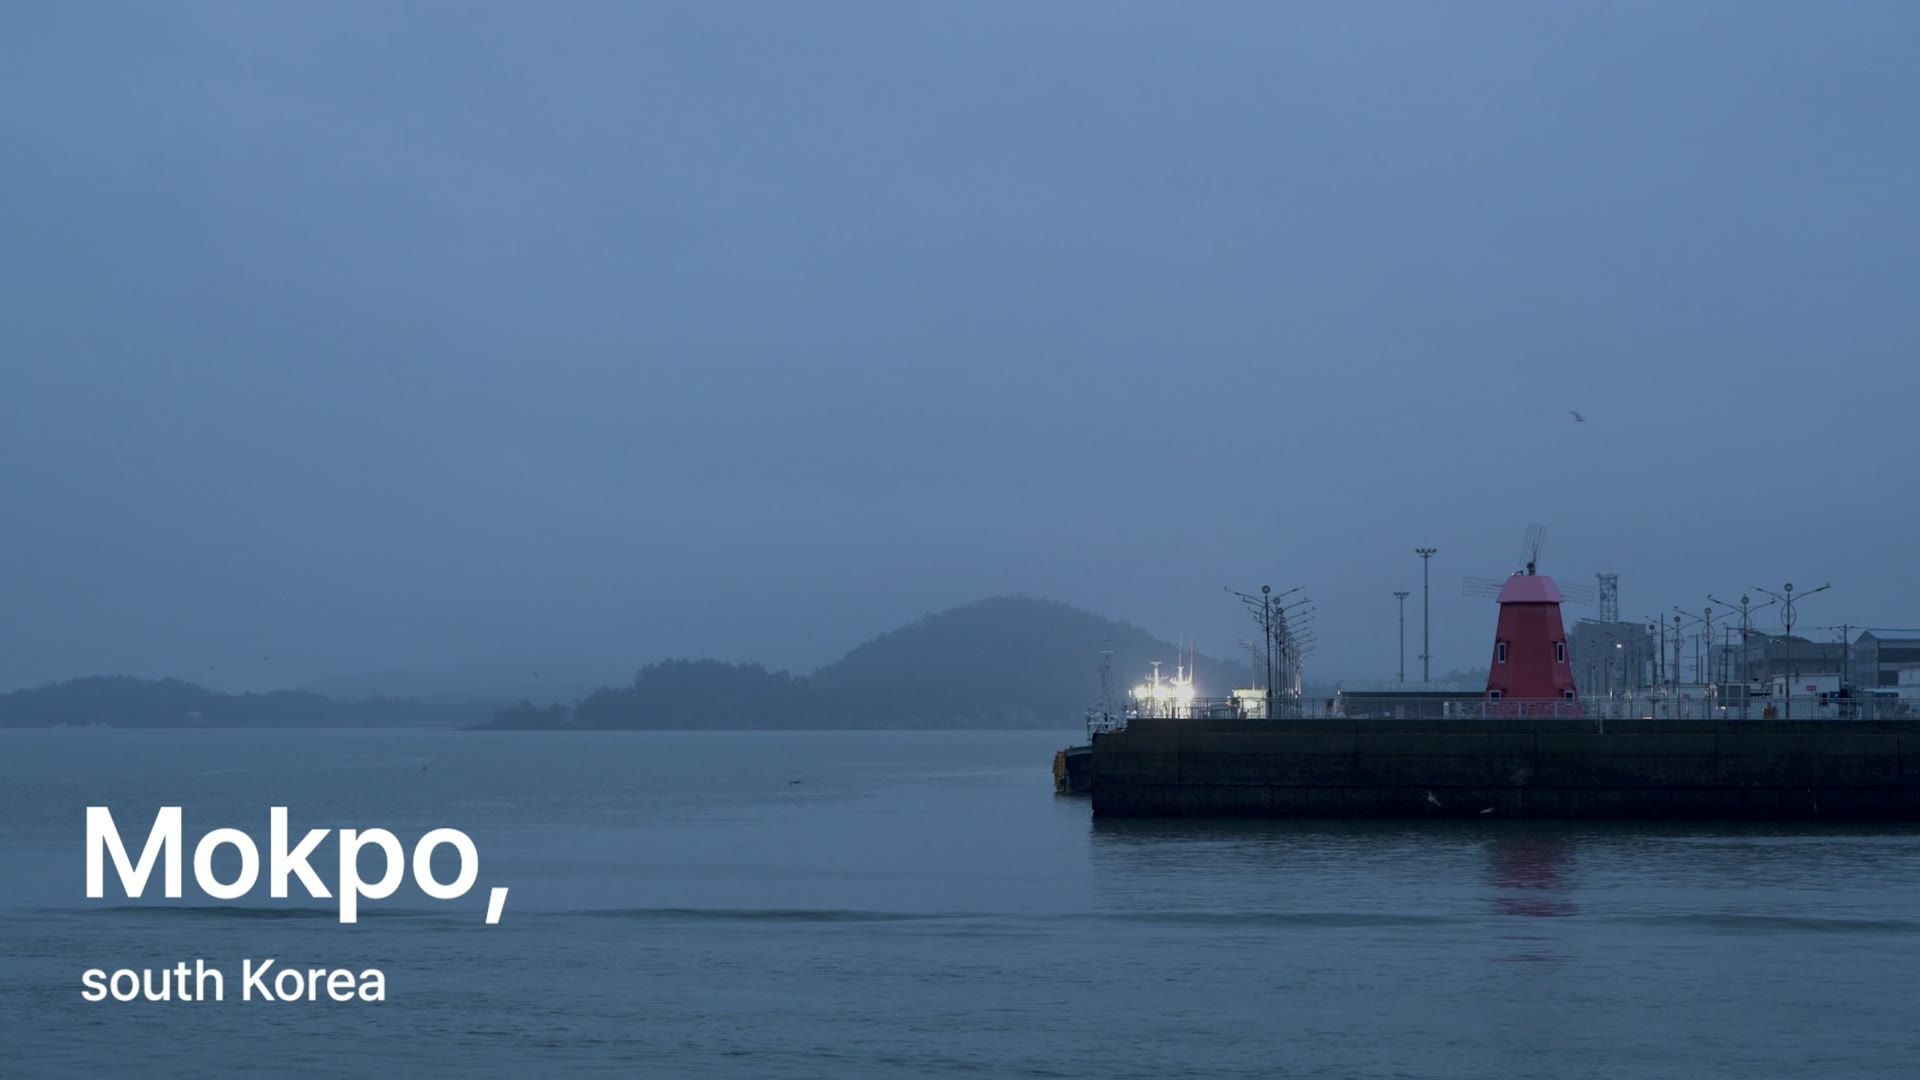
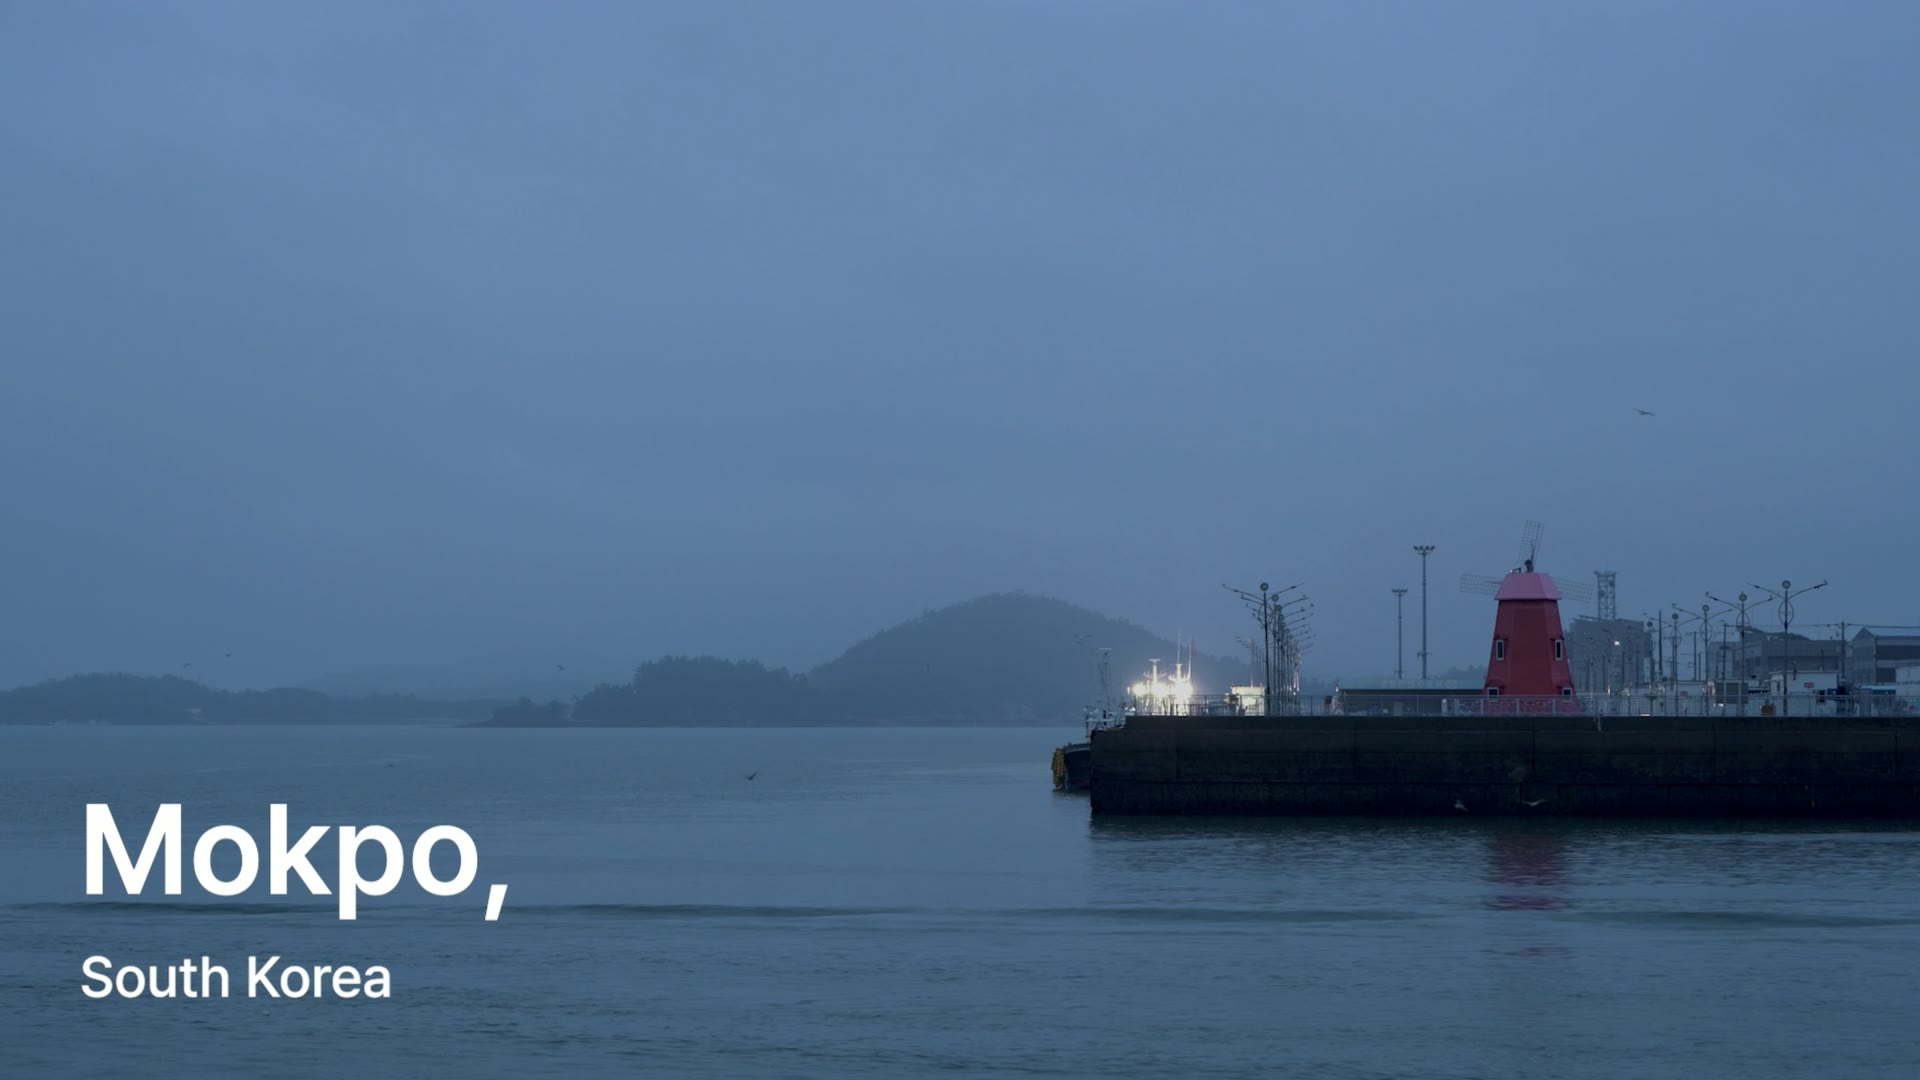
Add teams 3-4 thumbnails from video frames, replace team 1 documentary thumbnail
3 doc 82.17s, 3 brand 8.26s, 4 doc 37.8s (cropped above burned-in subtitle), 4 brand 16.46s.
Team 1 doc thumbnail updated to the new Drive file (3344x1856, cropped to 16:9).

diff --git a/4/index.html b/4/index.html
@@ -29,11 +29,11 @@
     <h1 class="tlogo rv" style="--i:1"><span class="lg" style="--k:1.02" aria-hidden="true"><svg xmlns="http://www.w3.org/2000/svg" viewBox="0 0 629.00 165.00" fill="currentColor"><path d="M199.42 29.40L222.21 29.40L222.21 132.00L232.63 132.00L232.63 29.40L255.42 29.40L255.42 19.00L199.42 19.00Z"/><path d="M267.38 82.21L267.44 81.77C268.75 72.90 272.40 65.73 278.27 60.47L278.29 60.49C284.18 55.25 291.45 52.60 299.91 52.60C309.00 52.60 316.48 55.08 322.16 59.95C327.81 64.82 331.74 72.16 333.86 81.75L333.96 82.21ZM333.17 56.23C324.94 47.33 314.60 43.00 301.58 43.00C288.56 43.00 277.53 47.27 269.13 55.70C260.82 64.02 256.42 75.16 256.42 87.88C256.42 100.60 260.78 110.95 269.40 119.75C278.00 128.54 288.66 133.00 301.11 133.00C310.47 133.00 318.86 130.45 325.98 125.42C332.62 120.75 337.94 114.08 341.83 105.59L342.46 104.21L330.68 104.21L330.40 104.75C327.57 110.40 323.59 114.90 318.58 118.14C313.32 121.51 307.33 123.22 300.79 123.22C291.53 123.22 283.69 120.28 277.53 114.45C271.32 108.61 267.85 100.88 267.16 91.49L267.12 91.08L345.42 91.08L345.42 90.10L345.40 90.08C345.28 76.27 341.18 64.88 333.17 56.23"/><path d="M479.97 87.87C479.82 97.53 476.51 105.94 470.12 112.83C463.50 119.99 455.92 123.46 446.97 123.46C438.01 123.46 429.91 120.07 423.41 113.38C416.73 106.49 413.61 98.64 413.61 88.66C413.61 78.67 416.92 69.82 423.45 62.91C429.99 56.01 438.01 52.52 447.30 52.52L447.30 52.54C455.87 52.54 463.54 56.03 470.08 62.94C476.64 69.82 479.97 78.00 479.97 87.23ZM479.99 59.56L479.97 59.58L479.27 58.60C475.67 53.60 471.09 49.69 465.66 47.02C460.23 44.35 454.15 43.00 447.63 43.00C434.93 43.00 424.20 47.36 415.73 55.97C407.28 64.56 403.00 75.41 403.00 88.21C403.00 101.00 407.21 111.54 415.48 120.09C423.76 128.66 434.25 133.00 446.69 133.00C453.35 133.00 459.68 131.59 465.48 128.78C471.27 125.98 475.92 122.07 479.29 117.17L479.99 116.13L479.99 130.72L490.00 130.72L490.00 44.88L479.99 44.88Z"/><path d="M546.42 19.00L490.42 19.00L490.42 29.40L513.20 29.40L513.20 132.00L523.64 132.00L523.64 29.40L546.42 29.40Z"/><path d="M608.92 113.57C602.35 120.43 594.66 123.91 586.08 123.91C576.96 123.91 569.08 120.43 562.66 113.61C556.22 106.78 552.97 98.18 552.97 88.10L552.97 87.71C553.04 78.13 556.32 69.94 562.72 63.37C569.10 56.81 577.18 53.34 586.10 53.34C595.01 53.34 602.62 56.89 609.10 63.89C615.56 70.88 618.83 79.42 618.83 89.29C618.83 98.53 615.50 106.68 608.92 113.57M618.97 60.91L618.27 59.95C614.25 54.49 609.57 50.44 604.36 47.86C599.17 45.29 592.88 44.00 585.70 44.00C573.37 44.00 562.92 48.31 554.58 56.81C546.12 65.43 542.00 75.79 542.00 88.49C542.00 101.18 546.27 111.99 554.72 120.51C563.17 129.04 573.94 133.35 586.70 133.35C593.04 133.35 598.91 131.90 604.14 129.06C609.39 126.19 614.15 121.90 618.27 116.28L618.97 115.32L618.97 118.80C618.97 129.76 615.95 138.63 609.98 145.20C603.99 151.80 595.95 155.13 586.08 155.13C579.75 155.13 574.31 153.71 569.90 150.88C565.71 148.21 562.70 144.48 560.96 139.82L560.73 139.18L548.67 139.18L549.06 140.44C551.27 147.60 555.62 153.45 561.96 157.84C568.87 162.60 577.24 165.00 586.88 165.00C599.95 165.00 610.35 160.79 617.78 152.46C625.21 144.11 629.00 132.35 629.00 117.49L629.00 46.03L618.97 46.03Z"/><path d="M364.00 132.00L374.00 132.00L374.00 46.00L364.00 46.00Z"/><path d="M377.00 46.00L377.00 56.00L387.00 56.00L397.00 46.00L387.00 46.00Z"/><path d="M53.67 108.67L107.33 54.33L161.00 54.33L161.00 0.00L53.67 0.00Z"/><path d="M0.00 54.33L53.67 0.00L0.00 0.00Z"/><path d="M53.67 161.33L53.67 108.67L0.00 163.00L52.00 163.00L53.67 163.00L106.00 163.00L161.00 163.00L161.00 109.00L106.00 109.00Z"/></svg></span><span class="sr">4조</span></h1>
     <p class="title rv" style="--i:2">TeraTg: TENO</p>
   </div>
-  <figure class="film rv" style="--i:3" data-video="https://youtu.be/eu5NG_8lGsk" aria-label="4조 영상">
+  <figure class="film rv has-poster" style="--i:3;background-image:url(../assets/thumbs/4-main.jpg)" data-video="https://youtu.be/eu5NG_8lGsk" aria-label="4조 영상">
     <button class="play" type="button" disabled><span class="tri"></span><span class="lbl ko">메인 영상</span></button>
   </figure>
   <section class="about rv" style="--i:4">
-    <figure class="film reel" data-video="https://youtu.be/U_OxH2unRtc" aria-label="4조 브랜드 필름">
+    <figure class="film reel has-poster" style="background-image:url(../assets/thumbs/4-brand.jpg)" data-video="https://youtu.be/U_OxH2unRtc" aria-label="4조 브랜드 필름">
       <button class="play" type="button" disabled><span class="tri"></span><span class="lbl ko">브랜드 필름</span></button>
     </figure>
     <div class="text"><p class="lead">금속가공칩을 노동의 기록으로 바라보고, 이를 일상으로 가져와 새로운 기록을 쌓아갈 수 있는 오브제를 디자인하는 브랜드.</p><p class="body">What remains after something is made?

diff --git a/3/index.html b/3/index.html
@@ -29,11 +29,11 @@
     <h1 class="tlogo rv" style="--i:1"><span class="lg" style="--k:0.93" aria-hidden="true"><svg xmlns="http://www.w3.org/2000/svg" viewBox="0 0 380.66 135.99" fill="currentColor"><path d="M123.60 118.45C111.01 118.45 103.21 108.55 103.21 95.95C103.21 83.37 111.01 73.47 123.60 73.47C136.20 73.47 143.99 83.37 143.99 95.95C143.99 108.55 136.20 118.45 123.60 118.45M123.60 55.94C99.92 55.94 82.38 73.62 82.38 95.95C82.38 118.45 99.92 135.98 123.60 135.98C147.29 135.98 164.83 118.45 164.83 95.95C164.83 73.47 147.29 55.94 123.60 55.94"/><path d="M214.49 74.40L228.11 74.40L228.11 56.13L214.49 56.13C189.81 56.13 171.53 73.62 171.53 95.95C171.53 118.45 189.81 135.79 214.49 135.79L228.11 135.79L228.11 117.51L214.49 117.51C201.37 117.51 193.24 108.14 193.24 95.95C193.24 83.78 201.37 74.40 214.49 74.40"/><path d="M367.04 74.40L380.66 74.40L380.66 56.13L367.04 56.13C342.36 56.13 324.08 73.62 324.08 95.95C324.08 118.45 342.36 135.79 367.04 135.79L380.66 135.79L380.66 117.51L367.04 117.51C353.92 117.51 345.79 108.14 345.79 95.95C345.79 83.78 353.92 74.40 367.04 74.40"/><path d="M275.96 118.45C263.37 118.45 255.58 108.55 255.58 95.95C255.58 83.37 263.37 73.47 275.96 73.47C288.56 73.47 296.35 83.37 296.35 95.95C296.35 108.55 288.56 118.45 275.96 118.45M275.96 55.94C252.28 55.94 234.74 73.62 234.74 95.95C234.74 118.45 252.28 135.98 275.96 135.98C299.65 135.98 317.19 118.45 317.19 95.95C317.19 73.47 299.65 55.94 275.96 55.94"/><path d="M75.22 90.25L75.22 135.99L54.68 135.99L54.68 90.25C54.68 80.97 47.19 73.46 37.89 73.46C33.65 73.46 29.72 75.02 26.74 77.59C23.13 80.69 21.21 85.32 21.24 90.08C21.25 91.62 21.25 93.16 21.25 94.68L21.25 135.99L0.33 135.99L0.33 89.13C0.18 60.20 0.00 24.20 38.18 0.00L49.36 17.66C30.41 29.66 24.17 45.20 22.15 62.36C28.26 57.85 35.58 55.93 42.39 55.93C64.43 55.93 75.22 71.37 75.22 90.25"/></svg></span><span class="sr">3조</span></h1>
     <p class="title rv" style="--i:2">호콕, 콕콕</p>
   </div>
-  <figure class="film rv" style="--i:3" data-video="https://youtu.be/ko4s1TerFhw" aria-label="3조 영상">
+  <figure class="film rv has-poster" style="--i:3;background-image:url(../assets/thumbs/3-main.jpg)" data-video="https://youtu.be/ko4s1TerFhw" aria-label="3조 영상">
     <button class="play" type="button" disabled><span class="tri"></span><span class="lbl ko">메인 영상</span></button>
   </figure>
   <section class="about rv" style="--i:4">
-    <figure class="film reel" data-video="https://youtu.be/uJraLkS5YAY" aria-label="3조 브랜드 필름">
+    <figure class="film reel has-poster" style="background-image:url(../assets/thumbs/3-brand.jpg)" data-video="https://youtu.be/uJraLkS5YAY" aria-label="3조 브랜드 필름">
       <button class="play" type="button" disabled><span class="tri"></span><span class="lbl ko">브랜드 필름</span></button>
     </figure>
     <div class="text"><p class="lead">호콕은 익숙한 호박의 낯선 꼭지와 공간의 모서리를 재해석해,  생활 속에 단단히 스며드는 쓰임을 제안합니다.</p><p class="body">호콕(HOCOC)은 열매에 가려진 늙은 호박꼭지에서 이야기를 시작합니다. 쓰임 밖에 남겨졌지만 시간이 만든 단단함과 저마다의 결이 살아 있는 소재입니다. 우리는 이 흔적을 살려 집 안의 잊힌 모서리에도 주목합니다. 지나쳤던 소재와 비워진 공간이 만나 새로운 역할을 건네고, 스쳐 지나던 구석은 취향과 일상이 쌓이는 자리가 됩니다. 호박꼭지의 ‘호꼭’에서 한곳에 자리 잡는 ‘호콕’으로. 뜻밖의 모습으로 나타나, 늘 그곳에 있었던 것처럼 일상에 스며듭니다.</p><dl><dt class="ko">PI</dt><dd>조참비 · 김한서</dd><dt class="ko">BI</dt><dd>김지윤 · 한태영</dd><dt class="ko">MI</dt><dd>김예담</dd></dl></div>
